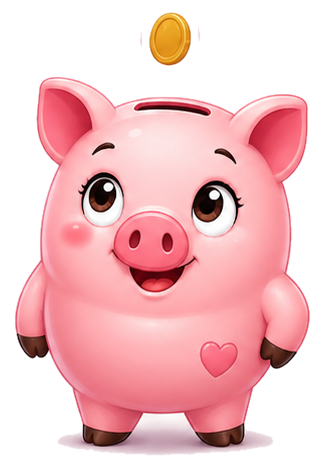
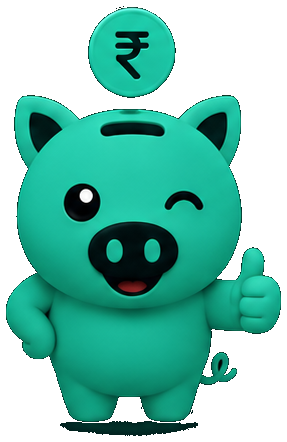
feat: refresh Penny mascot assets

diff --git a/app/src/main/kotlin/com/expensetracker/app/ui/mascot/Piggy.kt b/app/src/main/kotlin/com/expensetracker/app/ui/mascot/Piggy.kt
@@ -131,11 +131,11 @@ private fun fullAssetPath(mood: PiggyMood): String? =
         PiggyMood.Cheer -> "mascot/emotions/full/penny_cheer.png"
         PiggyMood.Wink -> "mascot/emotions/full/penny_wink.png"
         PiggyMood.Coin -> "mascot/emotions/full/penny_coin.png"
-        PiggyMood.Sleepy,
-        PiggyMood.Curious,
-        PiggyMood.Love,
-        PiggyMood.Excited,
-        PiggyMood.Surprised -> null
+        PiggyMood.Sleepy -> "mascot/emotions/full/penny_sleepy.png"
+        PiggyMood.Curious -> "mascot/emotions/full/penny_curious.png"
+        PiggyMood.Love -> "mascot/emotions/full/penny_love.png"
+        PiggyMood.Excited -> "mascot/emotions/full/penny_excited.png"
+        PiggyMood.Surprised -> "mascot/emotions/full/penny_surprised.png"
     }
 
 private fun halfCutAssetPath(mood: PiggyMood): String? =

diff --git a/scripts/slice_penny_sprites.py b/scripts/slice_penny_sprites.py
@@ -1,0 +1,122 @@
+"""Slice the Penny mascot sprite sheets (2x4 grid) into individual emotion PNGs.
+
+Background of source images is near-black; we flood-fill from the four corners
+with a tolerance so the piggy's black eyes/nose stay opaque, then tight-crop
+to the visible mascot.
+"""
+from __future__ import annotations
+
+import os
+from pathlib import Path
+from PIL import Image, ImageDraw
+
+REPO_ROOT = Path(r"d:/Android Work/expense-tracker")
+ASSETS = REPO_ROOT / "app/src/main/assets/mascot"
+DOWNLOADS = Path(r"C:/Users/HP/Downloads")
+
+FULL_SRC = DOWNLOADS / "ChatGPT Image May 10, 2026, 03_21_28 PM.png"
+HALF_SRC = DOWNLOADS / "ChatGPT Image May 10, 2026, 03_23_54 PM.png"
+
+# Mapping: (row, col) -> emotion key. Layout (per the sheets):
+#   Row 0: wave, wink, cheer, curious
+#   Row 1: surprised, love (worried-cute), sleepy (teary), excited
+LAYOUT = {
+    (0, 0): "wave",
+    (0, 1): "wink",
+    (0, 2): "cheer",
+    (0, 3): "curious",
+    (1, 0): "surprised",
+    (1, 1): "love",
+    (1, 2): "sleepy",
+    (1, 3): "excited",
+}
+
+ROWS, COLS = 2, 4
+
+
+def remove_bg(cell: Image.Image, tolerance: int = 55) -> Image.Image:
+    """Flood-fill from corners using PIL to make near-black background transparent."""
+    img = cell.convert("RGBA")
+    w, h = img.size
+    # Work on a copy where the background sample is replaced with a sentinel alpha.
+    # Strategy: for each border pixel, if it's near-black, flood-fill to transparent.
+    seed_color = (0, 0, 0, 0)
+    # PIL ImageDraw.floodfill operates on RGB; we'll do it on a temp RGB then
+    # mask. Use a unique magenta sentinel.
+    sentinel = (255, 0, 255)
+    rgb = img.convert("RGB")
+    # Flood-fill from each of the four corners with the sentinel.
+    for x, y in [(0, 0), (w - 1, 0), (0, h - 1), (w - 1, h - 1)]:
+        ImageDraw.floodfill(rgb, (x, y), sentinel, thresh=tolerance)
+    # Also try mid-edge points to catch detached background regions.
+    for x, y in [(w // 2, 0), (w // 2, h - 1), (0, h // 2), (w - 1, h // 2)]:
+        ImageDraw.floodfill(rgb, (x, y), sentinel, thresh=tolerance)
+    # Build alpha mask: pixels equal to sentinel -> 0 alpha, else keep original.
+    px_rgb = rgb.load()
+    px_out = img.load()
+    for y in range(h):
+        for x in range(w):
+            if px_rgb[x, y] == sentinel:
+                px_out[x, y] = seed_color
+    return img
+
+
+def tight_crop(img: Image.Image, padding: int = 6) -> Image.Image:
+    bbox = img.getbbox()  # uses non-zero alpha
+    if not bbox:
+        return img
+    left, top, right, bottom = bbox
+    left = max(0, left - padding)
+    top = max(0, top - padding)
+    right = min(img.width, right + padding)
+    bottom = min(img.height, bottom + padding)
+    return img.crop((left, top, right, bottom))
+
+
+def slice_sheet(src_path: Path, out_dir: Path) -> dict[str, Path]:
+    out_dir.mkdir(parents=True, exist_ok=True)
+    sheet = Image.open(src_path).convert("RGBA")
+    W, H = sheet.size
+    cell_w = W // COLS
+    cell_h = H // ROWS
+    print(f"Slicing {src_path.name}: {W}x{H}, cell={cell_w}x{cell_h}")
+    written: dict[str, Path] = {}
+    for (r, c), name in LAYOUT.items():
+        box = (c * cell_w, r * cell_h, (c + 1) * cell_w, (r + 1) * cell_h)
+        cell = sheet.crop(box)
+        cleaned = remove_bg(cell)
+        trimmed = tight_crop(cleaned)
+        out = out_dir / f"penny_{name}.png"
+        trimmed.save(out, format="PNG", optimize=True)
+        written[name] = out
+        print(f"  -> {out.relative_to(REPO_ROOT)}  {trimmed.size}")
+    return written
+
+
+def main() -> None:
+    full_out = ASSETS / "emotions/full"
+    half_out = ASSETS / "emotions/half_cut"
+
+    full_files = slice_sheet(FULL_SRC, full_out)
+    half_files = slice_sheet(HALF_SRC, half_out)
+
+    # Default mascot uses the cheer pose (full body, both arms up, biggest grin).
+    default = full_files.get("cheer") or full_files.get("wave")
+    if default:
+        target = ASSETS / "penny_mascot.png"
+        Image.open(default).save(target, format="PNG", optimize=True)
+        print(f"Updated default mascot -> {target.relative_to(REPO_ROOT)}")
+
+    # penny_coin uses the wink/thumbs-up pose since the new art has no
+    # dedicated coin shot. penny_happy reuses the wave for a friendly default.
+    wink = full_files.get("wink")
+    if wink:
+        Image.open(wink).save(full_out / "penny_coin.png", format="PNG", optimize=True)
+    if "wave" in full_files:
+        Image.open(full_files["wave"]).save(full_out / "penny_happy.png", format="PNG", optimize=True)
+
+    print("Done.")
+
+
+if __name__ == "__main__":
+    main()

diff --git a/scripts/slice_love_sleepy.py b/scripts/slice_love_sleepy.py
@@ -1,0 +1,77 @@
+"""Slice the love/sleepy 2x2 sheet and replace existing variants.
+
+Layout of the source sheet:
+  Top-left  = full-body  Penny LOVE   (dreamy, hand on cheek)
+  Top-right = full-body  Penny SLEEPY (eyes closed, ZZZs)
+  Bottom-left  = half-cut Penny LOVE
+  Bottom-right = half-cut Penny SLEEPY
+"""
+from __future__ import annotations
+
+from pathlib import Path
+from PIL import Image, ImageDraw
+
+REPO_ROOT = Path(r"d:/Android Work/expense-tracker")
+ASSETS = REPO_ROOT / "app/src/main/assets/mascot"
+SRC = Path(r"C:/Users/HP/Downloads/ChatGPT Image May 10, 2026, 03_39_28 PM.png")
+
+LAYOUT = {
+    (0, 0): ("full", "love"),
+    (0, 1): ("full", "sleepy"),
+    (1, 0): ("half_cut", "love"),
+    (1, 1): ("half_cut", "sleepy"),
+}
+
+
+def remove_bg(cell: Image.Image, tolerance: int = 55) -> Image.Image:
+    img = cell.convert("RGBA")
+    w, h = img.size
+    sentinel = (255, 0, 255)
+    rgb = img.convert("RGB")
+    seeds = [
+        (0, 0), (w - 1, 0), (0, h - 1), (w - 1, h - 1),
+        (w // 2, 0), (w // 2, h - 1), (0, h // 2), (w - 1, h // 2),
+    ]
+    for x, y in seeds:
+        ImageDraw.floodfill(rgb, (x, y), sentinel, thresh=tolerance)
+    px_rgb = rgb.load()
+    px_out = img.load()
+    for y in range(h):
+        for x in range(w):
+            if px_rgb[x, y] == sentinel:
+                px_out[x, y] = (0, 0, 0, 0)
+    return img
+
+
+def tight_crop(img: Image.Image, padding: int = 6) -> Image.Image:
+    bbox = img.getbbox()
+    if not bbox:
+        return img
+    left, top, right, bottom = bbox
+    return img.crop((
+        max(0, left - padding),
+        max(0, top - padding),
+        min(img.width, right + padding),
+        min(img.height, bottom + padding),
+    ))
+
+
+def main() -> None:
+    sheet = Image.open(SRC).convert("RGBA")
+    W, H = sheet.size
+    cell_w = W // 2
+    cell_h = H // 2
+    print(f"Source: {SRC.name}  {W}x{H}  cell={cell_w}x{cell_h}")
+    for (r, c), (variant, name) in LAYOUT.items():
+        box = (c * cell_w, r * cell_h, (c + 1) * cell_w, (r + 1) * cell_h)
+        cell = sheet.crop(box)
+        cleaned = remove_bg(cell)
+        trimmed = tight_crop(cleaned)
+        out = ASSETS / f"emotions/{variant}/penny_{name}.png"
+        out.parent.mkdir(parents=True, exist_ok=True)
+        trimmed.save(out, format="PNG", optimize=True)
+        print(f"  -> {out.relative_to(REPO_ROOT)}  {trimmed.size}")
+
+
+if __name__ == "__main__":
+    main()
